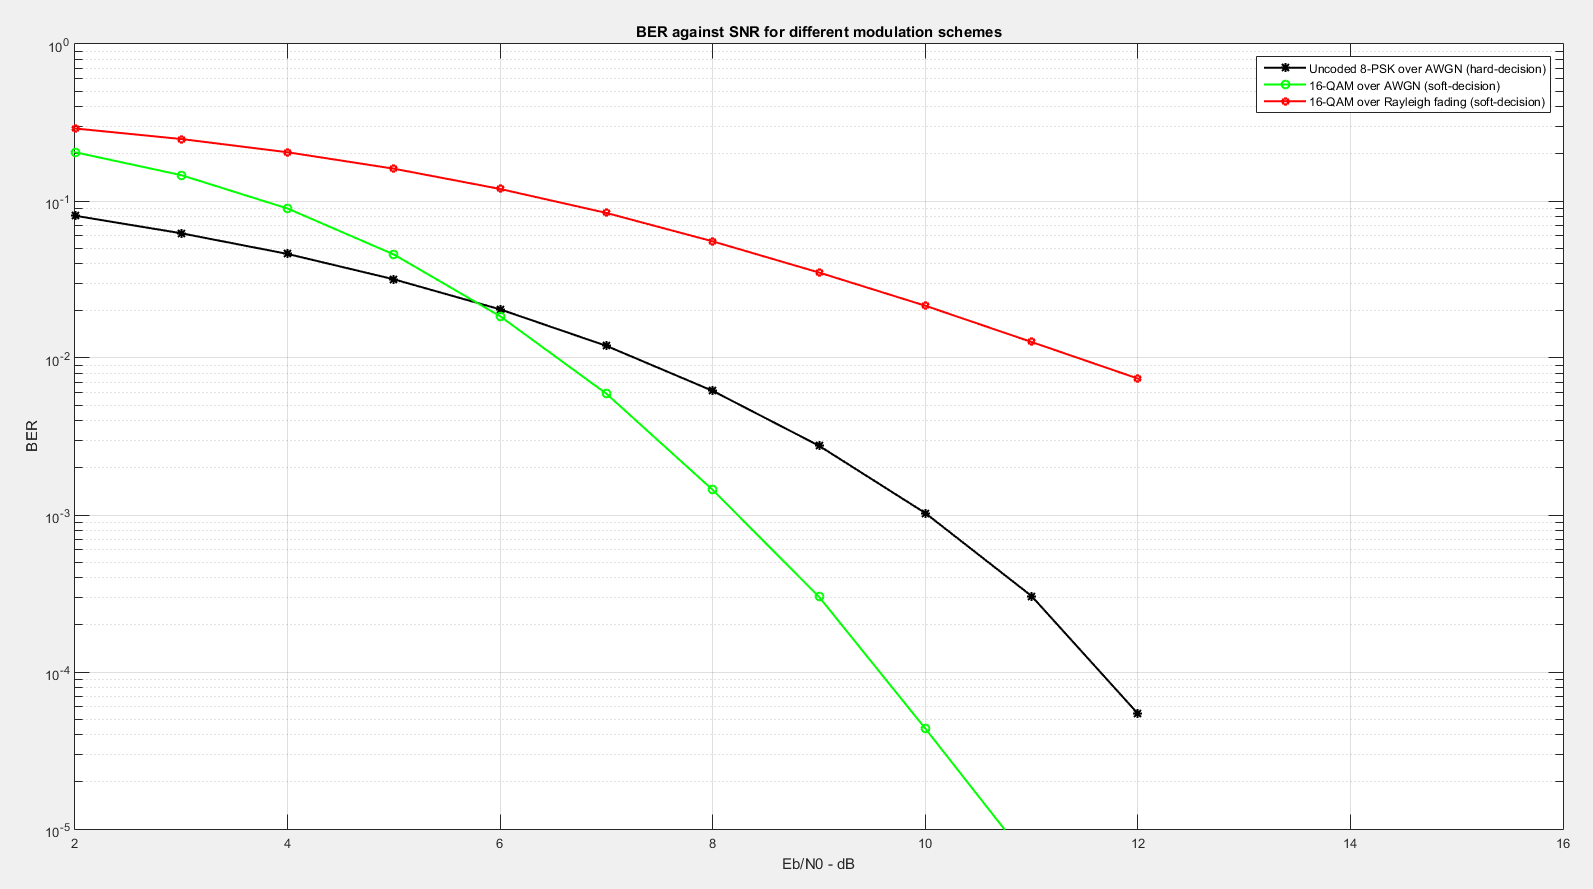
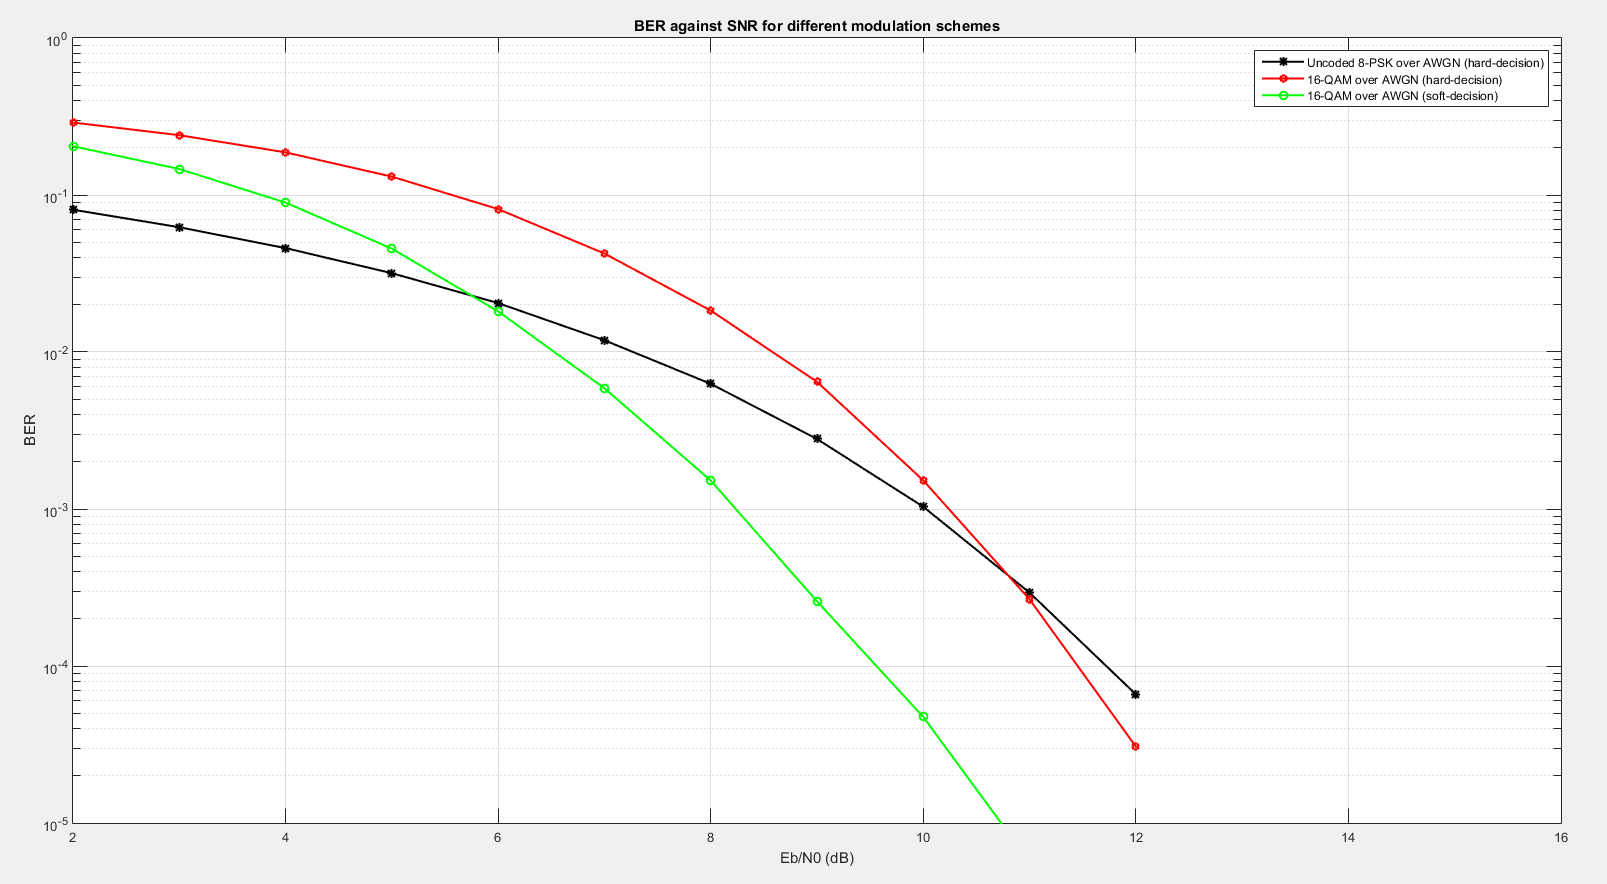
Modified code. Previously answered the wrong questions.

diff --git a/16QAM/Q1/main.m b/16QAM/Q1/main.m
@@ -3,18 +3,16 @@
 % Range of SNR to be tested, (snr is the SNR per info bit (Eb/N0) expressed in dB)
 snr_dB=2:12;
 
-% number of soft decision bits
-nsdec = 10; 
-
 % Number of information bits per frame
 length_frame=3000;
+
 % Number of frames
 number_frames=1000;
 
 % Total number of information bits
 number_bits=length_frame*number_frames;
 
-fprintf(' BER performance of coded 16QAM over AWGN\n');
+fprintf(' BER performance of coded 16QAM over AWGN (hard-decision)\n');
 fprintf(' Number of bits per frame = %d\n',length_frame);
 fprintf(' Number of frames = %d\n',number_frames);
 fprintf(' Number of info bits = %d\n',number_bits);
@@ -45,11 +43,11 @@ for i=1:length(snr_dB)
         % Mapping and transmission through the AWGN or Rayleigh fading channel
         [r1,r2,h1,h2] = transmission(length_frame,signal,bit,snr,coded);
 
-        % Demapping
-        demod = demodulation(length_frame,signal,bit,snr,nsdec,r1,r2,h1,h2);
+        % Decision block
+        demod = demodulation(length_frame,signal,bit,r1,r2,h1,h2);
         
-        % Viterbi decoding
-        decoded = vitdec(demod, t, 100, 'trunc', 'soft', nsdec); 
+        % Depuncturing and Viterbi decoding
+        decoded = vitdec(demod, t, 100, 'trunc', 'hard', [1 1 0]); 
 
         % Error count
         [number_errors(frame),ratio] = biterr(msg,decoded);
@@ -63,6 +61,6 @@ for i=1:length(snr_dB)
 end
 
 fprintf('\n\n');
-plotHandle=semilogy(snr_dB,BER,'g-o');
+plotHandle=semilogy(snr_dB,BER,'r-h');
 set(plotHandle,'LineWidth',1.5);
 hold on;

diff --git a/16QAM/Q2/main.m b/16QAM/Q2/main.m
@@ -8,13 +8,14 @@ nsdec = 10;
 
 % Number of information bits per frame
 length_frame=3000;
+
 % Number of frames
 number_frames=1000;
 
 % Total number of information bits
 number_bits=length_frame*number_frames;
 
-fprintf(' BER performance of coded 16QAM over Rayleigh fading\n');
+fprintf(' BER performance of coded 16QAM over AWGN (soft-decision)\n');
 fprintf(' Number of bits per frame = %d\n',length_frame);
 fprintf(' Number of frames = %d\n',number_frames);
 fprintf(' Number of info bits = %d\n',number_bits);
@@ -63,6 +64,6 @@ for i=1:length(snr_dB)
 end
 
 fprintf('\n\n');
-plotHandle=semilogy(snr_dB,BER,'r-h');
+plotHandle=semilogy(snr_dB,BER,'g-o');
 set(plotHandle,'LineWidth',1.5);
 hold on;

diff --git a/16QAM/Q2/transmission.m b/16QAM/Q2/transmission.m
@@ -27,13 +27,9 @@ function [r1,r2,h1,h2]=transmission(length_frame,signal,bit,snr,coded)
         noise=sd*randn(1)+1i*sd*randn(1);
         
         % Generation of the fading samples h1 and h2
-        % For Rayleigh fading channels
-        noise1=sqrt(0.5)*randn(1);
-        noise2=sqrt(0.5)*randn(1);
-        h1(ii)=sqrt(noise1^2 + noise2^2);
-        noise1=sqrt(0.5)*randn(1);
-        noise2=sqrt(0.5)*randn(1);
-        h2(ii)=sqrt(noise1^2 + noise2^2);
+        % For AWGN channels
+        h1(ii)=1;
+        h2(ii)=1;
 
         % Expression of the received signal as a function of the transmitted signal
         r1(ii)=h1(ii)*real(transmitted) + real(noise);

diff --git a/8PSK/main.m b/8PSK/main.m
@@ -7,13 +7,14 @@ snr_dB=2:12;
 
 % Number of information bits per frame
 length_frame=3000;
+
 % Number of frames
 number_frames=1000;
 
 % Total number of information bits
 number_bits=length_frame*number_frames;
 
-fprintf(' BER performance of uncoded 8PSK over AWGN\n');
+fprintf(' BER performance of uncoded 8PSK over AWGN (hard-decision)\n');
 fprintf(' Number of bits per frame = %d\n',length_frame);
 fprintf(' Number of frames = %d\n',number_frames);
 fprintf(' Number of info bits = %d\n',number_bits);

diff --git a/run_all.m b/run_all.m
@@ -2,9 +2,9 @@ run('8PSK\main.m')
 run('16QAM\Q1\main.m')
 run('16QAM\Q2\main.m')
 
-legend('Uncoded 8-PSK over AWGN (hard-decision)','16-QAM over AWGN (soft-decision)','16-QAM over Rayleigh fading (soft-decision)');
+legend('Uncoded 8-PSK over AWGN (hard-decision)','16-QAM over AWGN (hard-decision)','16-QAM over AWGN (soft-decision)');
 axis([2 16 10^-5 1]);
-xlabel('Eb/N0 - dB');
+xlabel('Eb/N0 (dB)');
 ylabel('BER');
 title('BER against SNR for different modulation schemes');
 grid on;
